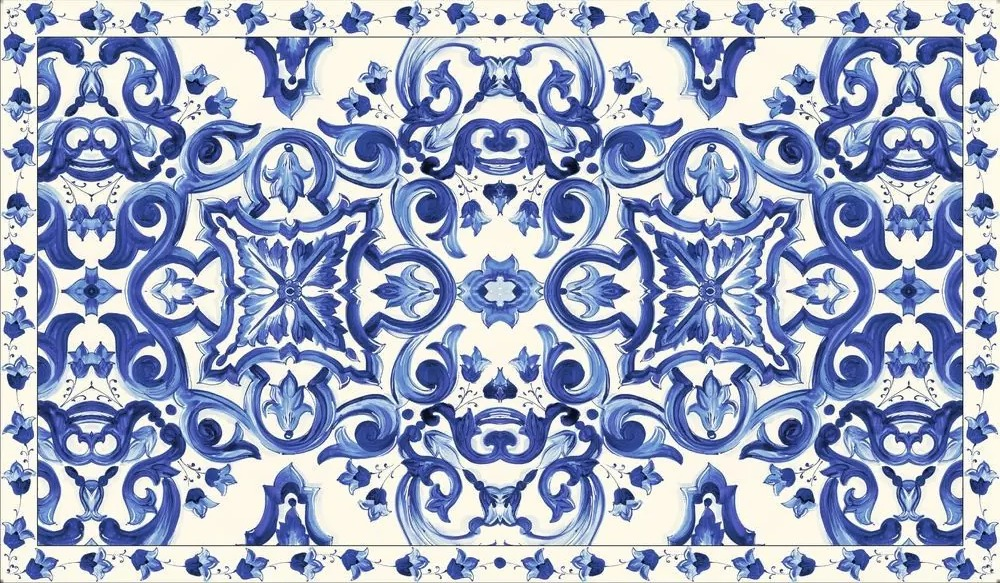
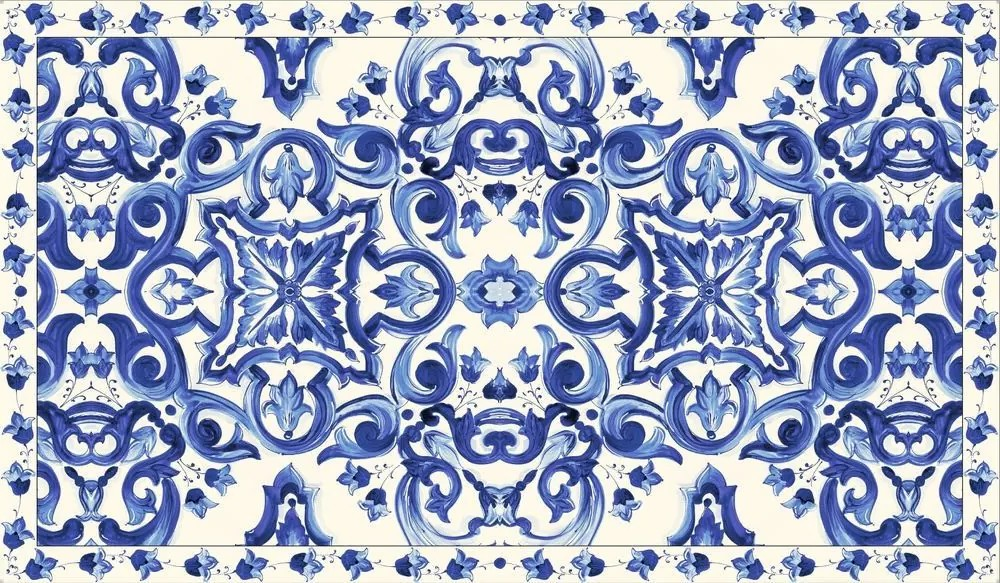
replanteo de paleta

Changed region(s): [[0.0, 0.0, 1.0, 1.0]]

diff --git a/styles.css b/styles.css
@@ -47,10 +47,8 @@ main {
 .hero {
   min-height: 100svh;
   padding: 24px clamp(18px, 4vw, 64px) 56px;
-  background:
-    linear-gradient(90deg, rgba(15, 82, 104, 0.92), rgba(15, 82, 104, 0.62) 45%, rgba(143, 189, 159, 0.18)),
-    url("./public/assets/image-01.jpg") center / cover;
-  color: var(--cream);
+  background: var(--cream) url("./public/assets/azulejo-horizontal.jpg") center / cover fixed;
+  color: var(--bruno);
 }
 
 .nav {
@@ -75,64 +73,10 @@ main {
   font-weight: 800;
 }
 
-.logo-mark {
-  display: none;
-}
-
-.logo-mark span,
-.logo-mark i {
-  background: var(--ink);
-  display: block;
-  position: absolute;
-}
-
-.logo-mark span {
-  border-radius: 999px;
-  bottom: 9px;
-  height: 24px;
-  left: 19px;
-  width: 3px;
-}
-
-.logo-mark i {
-  background: transparent;
-  border: 3px solid var(--ink);
-  border-bottom-color: transparent;
-  border-left-color: transparent;
-  border-radius: 50%;
-  height: 16px;
-  left: 18px;
-  top: 8px;
-  transform: rotate(26deg);
-  width: 16px;
-}
-
-.logo-mark::before,
-.logo-mark::after {
-  background: var(--ink);
-  border-radius: 100% 0 100% 0;
-  content: "";
-  height: 13px;
-  position: absolute;
-  top: 18px;
-  width: 20px;
-}
-
-.logo-mark::before {
-  left: 8px;
-  transform: rotate(-24deg);
-}
-
-.logo-mark::after {
-  right: 7px;
-  transform: rotate(118deg);
-}
-
 .nav-links {
-  background: rgba(251, 243, 207, 0.94);
-  border: 1px solid rgba(15, 82, 104, 0.28);
+  background: var(--cream);
+  border: 1px solid var(--bruno);
   border-radius: 999px;
-  box-shadow: 0 14px 30px rgba(5, 25, 16, 0.12);
   color: var(--ink);
   gap: 6px;
   padding: 6px;
@@ -146,7 +90,7 @@ main {
 }
 
 .nav-links a:hover {
-  background: rgba(20, 57, 46, 0.12);
+  background: var(--light-olive);
 }
 
 .hero-grid {
@@ -200,7 +144,7 @@ h2 {
 }
 
 .lead {
-  color: rgba(255, 246, 215, 0.92);
+  color: var(--bruno);
   font-size: clamp(1rem, 2vw, 1.25rem);
   line-height: 1.6;
   max-width: 560px;
@@ -228,7 +172,8 @@ h2 {
 }
 
 .secondary {
-  border: 1px solid rgba(251, 243, 207, 0.68);
+  border: 1px solid var(--bruno);
+  color: var(--bruno);
 }
 
 .hero-media {
@@ -239,10 +184,9 @@ h2 {
 
 .hero-main {
   border: 8px solid var(--cream);
-  box-shadow: 0 28px 70px rgba(5, 25, 16, 0.36);
   object-fit: cover;
-  aspect-ratio: 0.78;
-  border-radius: 120px 120px 8px 8px;
+  aspect-ratio: 0.72;
+  border-radius: 999px 999px 8px 8px;
   height: min(68vh, 640px);
   object-position: center;
   width: 100%;
@@ -258,9 +202,7 @@ h2 {
 
 .brand-panel {
   align-items: center;
-  background:
-    linear-gradient(90deg, rgba(251, 243, 207, 0.98), rgba(247, 212, 103, 0.28)),
-    var(--cream);
+  background: var(--cream);
   display: grid;
   gap: clamp(30px, 6vw, 80px);
   grid-template-columns: minmax(220px, 0.45fr) minmax(0, 0.8fr);
@@ -273,54 +215,78 @@ h2 {
 
 .brand-panel p:not(.eyebrow),
 .catalog-heading p {
-  color: rgba(20, 57, 46, 0.76);
+  color: var(--bruno);
   font-size: 1.04rem;
   line-height: 1.65;
 }
 
 .arch-logo {
   align-items: center;
-  background: var(--paper);
-  border: 2px solid var(--ink);
-  border-radius: 999px 999px 18px 18px;
-  box-shadow: 16px 16px 0 var(--sun);
+  background: var(--cream);
+  border: 2px solid var(--bruno);
+  border-radius: 999px 999px 0 0;
   display: flex;
   height: 300px;
   justify-content: center;
-  overflow: hidden;
   position: relative;
-  width: 190px;
+  width: 210px;
 }
 
 .arch-logo::before {
-  color: var(--ink);
+  color: var(--bruno);
   content: "J";
   font-family: Georgia, "Times New Roman", serif;
-  font-size: 10rem;
+  font-size: 10.5rem;
   font-weight: 800;
   line-height: 1;
-  transform: translateY(-4px);
-}
-
-.stem,
-.flower,
-.leaf {
-  display: none;
+  transform: translateY(18px);
 }
 
 .arch-logo::after {
-  background:
-    radial-gradient(circle at 50% 50%, var(--sun) 0 18%, transparent 19%),
-    radial-gradient(circle at 50% 18%, var(--ink) 0 14%, transparent 15%),
-    radial-gradient(circle at 82% 50%, var(--ink) 0 14%, transparent 15%),
-    radial-gradient(circle at 50% 82%, var(--ink) 0 14%, transparent 15%),
-    radial-gradient(circle at 18% 50%, var(--ink) 0 14%, transparent 15%);
+  background: var(--naples);
+  bottom: -20px;
   content: "";
-  height: 74px;
+  height: 100%;
   position: absolute;
-  right: 28px;
-  top: 54px;
-  width: 74px;
+  right: -20px;
+  width: 100%;
+  z-index: -1;
+}
+
+.flower-dot,
+.flower-center {
+  border-radius: 999px;
+  position: absolute;
+}
+
+.flower-dot {
+  background: var(--bruno);
+  border: 2px solid var(--naples);
+  height: 30px;
+  width: 30px;
+}
+
+.flower-center {
+  background: var(--naples);
+  height: 26px;
+  right: 70px;
+  top: 108px;
+  width: 26px;
+}
+
+.dot-top {
+  right: 70px;
+  top: 72px;
+}
+
+.dot-left {
+  right: 100px;
+  top: 108px;
+}
+
+.dot-right {
+  right: 38px;
+  top: 108px;
 }
 
 .section-heading {
@@ -364,9 +330,7 @@ h2 {
 }
 
 .catalog {
-  background:
-    linear-gradient(180deg, rgba(143, 189, 159, 0.28), rgba(251, 243, 207, 1) 30%),
-    var(--cream);
+  background: var(--neptune);
 }
 
 .catalog-heading {
@@ -389,15 +353,14 @@ h2 {
 }
 
 .product-card {
-  background: rgba(251, 243, 207, 0.96);
-  border: 1px solid rgba(15, 82, 104, 0.18);
+  background: var(--cream);
+  border: 1px solid var(--bruno);
   border-radius: 8px;
   overflow: hidden;
   transition: transform 180ms ease, box-shadow 180ms ease;
 }
 
 .product-card:hover {
-  box-shadow: 0 22px 48px rgba(35, 59, 48, 0.14);
   transform: translateY(-4px);
 }
 
@@ -430,16 +393,14 @@ h2 {
 }
 
 .product-info p {
-  color: rgba(20, 57, 46, 0.68);
+  color: var(--bruno);
   line-height: 1.45;
   margin-bottom: 0;
 }
 
 .visit {
   align-items: end;
-  background:
-    linear-gradient(rgba(15, 82, 104, 0.52), rgba(15, 82, 104, 0.76)),
-    url("./public/assets/image-04.jpg") center / cover;
+  background: var(--bruno);
   color: var(--cream);
   display: flex;
   gap: 28px;
@@ -452,7 +413,7 @@ h2 {
 }
 
 .visit-details {
-  background: rgba(251, 243, 207, 0.94);
+  background: var(--cream);
   border-radius: 8px;
   color: var(--deep);
   min-width: min(100%, 330px);
@@ -460,7 +421,7 @@ h2 {
 }
 
 .visit-details p {
-  border-bottom: 1px solid rgba(20, 57, 46, 0.16);
+  border-bottom: 1px solid var(--bruno);
   font-weight: 800;
   margin: 0;
   padding: 16px 0;
@@ -536,7 +497,7 @@ h2 {
 
   .arch-logo {
     height: 250px;
-    width: 150px;
+    width: 170px;
   }
 
   .story-grid,

diff --git a/index.html b/index.html
@@ -3,7 +3,7 @@
   <head>
     <meta charset="utf-8" />
     <meta name="viewport" content="width=device-width, initial-scale=1" />
-    <title>JACINTO | Plant shop</title>
+    <title>JACINTO | Local de plantas</title>
     <meta
       name="description"
       content="Portfolio web para JACINTO, un local boutique de plantas, macetas y especies seleccionadas."
@@ -15,10 +15,7 @@
     <main>
       <section class="hero" id="inicio">
         <nav class="nav" aria-label="Navegación principal">
-          <a class="wordmark" href="#inicio" aria-label="JACINTO inicio">
-            <span class="logo-mark" aria-hidden="true"><span></span><i></i></span>
-            <span>JACINTO</span>
-          </a>
+          <a class="wordmark" href="#inicio" aria-label="JACINTO inicio">JACINTO</a>
           <div class="nav-links">
             <a href="#local">Local</a>
             <a href="#catalogo">Catálogo</a>
@@ -28,7 +25,7 @@
 
         <div class="hero-grid">
           <div class="hero-copy">
-            <p class="eyebrow">Plant shop & ceramic studio</p>
+            <p class="eyebrow">Local de plantas y cerámica</p>
             <h1>JACINTO</h1>
             <p class="lead">
               Un local de plantas de interior, macetas artesanales y especies
@@ -48,15 +45,10 @@
 
       <section class="brand-panel" aria-label="Identidad JACINTO">
         <div class="arch-logo" aria-hidden="true">
-          <span class="stem stem-one"></span>
-          <span class="stem stem-two"></span>
-          <span class="stem stem-three"></span>
-          <span class="flower flower-one"></span>
-          <span class="flower flower-two"></span>
-          <span class="flower flower-three"></span>
-          <span class="leaf leaf-one"></span>
-          <span class="leaf leaf-two"></span>
-          <span class="leaf leaf-three"></span>
+          <span class="flower-dot dot-top"></span>
+          <span class="flower-dot dot-left"></span>
+          <span class="flower-dot dot-right"></span>
+          <span class="flower-center"></span>
         </div>
         <div>
           <p class="eyebrow">El local</p>
@@ -103,7 +95,7 @@
           <article class="product-card"><img src="./public/assets/image-12.jpg" alt="Tulipanes Sol" /><div class="product-info"><span>Temporada</span><h3>Tulipanes Sol</h3><p>Luz indirecta</p></div></article>
           <article class="product-card"><img src="./public/assets/image-13.jpg" alt="Alocasia Pink Dragon" /><div class="product-info"><span>Rareza suave</span><h3>Alocasia Pink Dragon</h3><p>Ambiente cálido</p></div></article>
           <article class="product-card"><img src="./public/assets/image-14.jpg" alt="Stromanthe Triostar" /><div class="product-info"><span>Tonos blush</span><h3>Stromanthe Triostar</h3><p>Luz filtrada</p></div></article>
-          <article class="product-card"><img src="./public/assets/image-15.jpg" alt="Limonero Mini" /><div class="product-info"><span>Aromatica</span><h3>Limonero Mini</h3><p>Exterior luminoso</p></div></article>
+          <article class="product-card"><img src="./public/assets/image-15.jpg" alt="Limonero Mini" /><div class="product-info"><span>Aromática</span><h3>Limonero Mini</h3><p>Exterior luminoso</p></div></article>
           <article class="product-card"><img src="./public/assets/image-16.jpg" alt="Monstera Albo" /><div class="product-info"><span>Variegada</span><h3>Monstera Albo</h3><p>Luz brillante</p></div></article>
           <article class="product-card"><img src="./public/assets/image-17.jpg" alt="Monstera Thai" /><div class="product-info"><span>Hojas perforadas</span><h3>Monstera Thai</h3><p>Riego espaciado</p></div></article>
           <article class="product-card"><img src="./public/assets/image-18.jpg" alt="Pilea Peperomioides" /><div class="product-info"><span>Para escritorio</span><h3>Pilea Peperomioides</h3><p>Fácil cuidado</p></div></article>